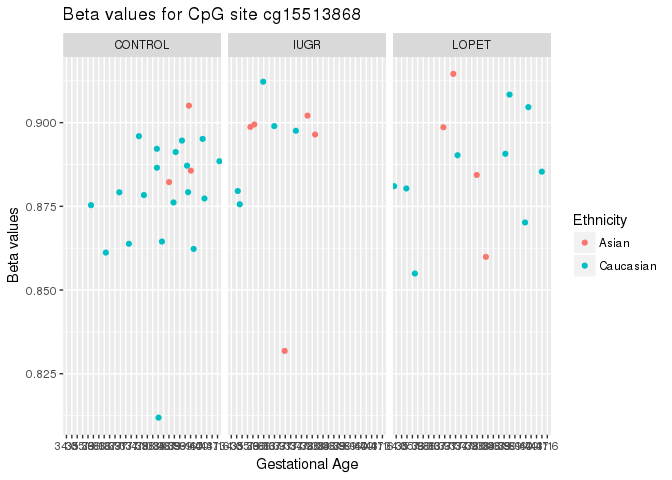
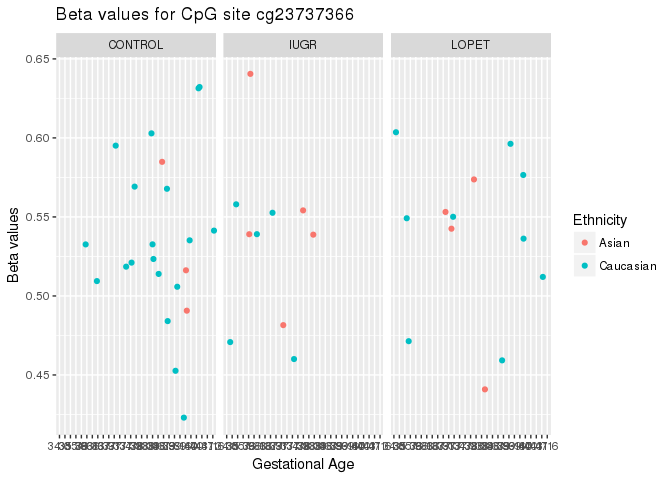
final exploratory

diff --git a/Scripts/ExploratoryAnalysis/Exploratory.md b/Scripts/ExploratoryAnalysis/Exploratory.md
@@ -1,6 +1,6 @@
 Exploratory Analysis of Processed Data
 ================
-Nivretta
+Nivretta, Ming
 
 Step 0: Load Packages and Data
 ==============================
@@ -59,13 +59,14 @@ full <- cbind(design, t(data))
 
 ``` r
 #random cpg site from 1 to 464923
-probe_row <- 2000
+probe_row <- 6000
 
 #get the site name 
 probe_name <- colnames(full)[probe_row]
 
+
 #plot y = beta values for random cpg site for all samples, x= gestational age, plots divided by sample group, points colored by ethnicity
-ggplot(full, aes(x = as.factor(ga), y = full[probe_row], colour = Ethnicity)) + 
+ggplot(full, aes(x = as.factor(ga), y = full[probe_name], colour = Ethnicity)) + 
   #geom_boxplot(aes(fill=Ethnicity), show.legend = TRUE) + 
   geom_jitter(width = 0.5) + 
   facet_wrap(~Sample_Group) + 
@@ -81,11 +82,11 @@ ggplot(full, aes(x = as.factor(ga), y = full[probe_row], colour = Ethnicity)) +
 ``` r
   #stat_summary(fun.y = mean, geom="point", colour="darkred", size= 3)
 
-#beta values for random cpG site, box plots of ethnicity
-ggplot(full, aes(x = Ethnicity, y = full[probe_row])) + 
-  geom_boxplot(aes(fill=Ethnicity), show.legend = FALSE) + 
-  geom_jitter(width = 0.3) + 
-  facet_wrap(~sex) + 
+#beta values for random cpG site
+ggplot(full, aes(x = Ethnicity, y = full[probe_name])) + 
+  geom_violin(show.legend = FALSE) + 
+  geom_jitter(width = 0.3, aes(colour = sex)) + 
+  #facet_wrap(~sex) + 
   xlab("Ethnicity") + 
   ylab("Beta values") +
   ggtitle(paste("Beta values for CpG site", probe_name)) +
@@ -109,21 +110,37 @@ gsetFin2_ethnicity <- data[, order_ethnicity]
 #set the color pallette for heatmap
 cols<-c(rev(brewer.pal(9,"YlOrRd")), "#FFFFFF")
 
+col <- c(rep("darkgoldenrod1", times = ncol(gsetFin2_ethnicity)))
+col[grepl("Asian", full_ethnicity$Ethnicity)] <- "forestgreen"
+op <- par(mai = rep(0.5, 4))
 heatmap.2(cor(gsetFin2_ethnicity), 
-          Rowv=NA, 
-          Colv=NA, 
+          Rowv=FALSE, 
+          Colv=FALSE, 
           dendrogram = "none",
+          symm = TRUE,
           trace="none",
-          col=cols, 
-          margins = c(8,8),
-          #labRow = c(full_time$labels),
-          #labCol = c(full_time$labels),
-          key.title = NA)
-title("Sample Correlations, 
-      Ordered by Ethnicity then sample group")
+          col = cols, 
+          margins = c(1,1),
+          RowSideColors = col,
+          ColSideColors = col,
+          labRow = FALSE,
+          labCol = FALSE,
+          key.title = NA,
+          main = "Sample Correlations, 
+        Ordered by Ethnicity then sample group")
+legend("bottomleft", c("Caucasian", "Asian"), col = c("darkgoldenrod1", "forestgreen"), 
+    pch = 15)
 ```
 
 ![](Exploratory_files/figure-markdown_github/Sample%20to%20Sample%20Correlations-1.png)
+
+``` r
+par(op)
+```
+
+Sample group (Control, LOPET, IUGR) does not seem to affect the clustering of the samples. This fits with what it is known in the literature (control, LOPET, IUGR do not affect DNAm). Most of the samples seem to correlate evenly with each other.
+
+Now let's look at sample to sample correlation, ordered by ethnicity then gender.
 
 ``` r
 #obtain sample names in order of ethnicity and then gender
@@ -136,21 +153,35 @@ gsetFin2_ethnicity_sex <- data[, order_ethnicity_sex]
 #set the color pallette for heatmap
 cols<-c(rev(brewer.pal(9,"YlOrRd")), "#FFFFFF")
 
+col <- c(rep("darkgoldenrod1", times = ncol(gsetFin2_ethnicity_sex)))
+col[grepl("Asian", full_ethnicity_sex$Ethnicity)] <- "forestgreen"
+op <- par(mai = rep(0.5, 4))
 heatmap.2(cor(gsetFin2_ethnicity_sex), 
-          Rowv=NA, 
-          Colv=NA, 
+           Rowv=FALSE, 
+          Colv=FALSE, 
           dendrogram = "none",
+          symm = TRUE,
           trace="none",
-          col=cols, 
-          margins = c(8,8),
-          #labRow = c(full_time$labels),
-          #labCol = c(full_time$labels),
-          key.title = NA)
-title("Sample Correlations, 
-      Ordered by Ethnicity then Sex")
+          col = cols, 
+          margins = c(1,1),
+          RowSideColors = col,
+          ColSideColors = col,
+          labRow = FALSE,
+          labCol = FALSE,
+          key.title = NA,
+          main = "Sample Correlations, 
+        Ordered by Ethnicity then Gender")
+legend("bottomleft", c("Caucasian", "Asian"), col = c("darkgoldenrod1", "forestgreen"), 
+    pch = 15)
 ```
 
 ![](Exploratory_files/figure-markdown_github/Sample%20to%20Sample%20Correlations2-1.png)
+
+``` r
+par(op)
+```
+
+It's difficult to tell if gender affects affects the clustering of the samples. We need to look at the data further.
 
 Step 2: Unsupervised clustering
 ===============================
@@ -213,17 +244,6 @@ summary(pc.train)
 The `summary()` function describes the importance of the PCs. The first row describe again the standard deviation associated with each PC. The second row shows the proportion of the variance in the data explained by each component while the third row describe the cumulative proportion of explained variance.
 
 ``` r
-#Plot seems unncessary and vector labels not working, ok to remove?
-#g <- ggbiplot(pc.train, obs.scale = 1, var.scale = 1, 
-              #groups = design$Ethnicity, ellipse = TRUE, 
-              #circle = TRUE)
-#g <- g + scale_color_discrete(name = '')
-#g <- g + theme(legend.direction = 'horizontal', 
-               #legend.position = 'top')
-#print(g)
-
-
-
 PC123 <- data.frame(pc.train$x[,1:5])              # Take out first 3 PCs
 PC123 <- PC123 %>% tibble::rownames_to_column('Samplename') %>%             # Put sample names into column to 
                     left_join(design, 'Samplename')                         # Join the metadata info 
@@ -313,19 +333,38 @@ splom(PC123[,c(2:6,10)], panel = panel.smoothScatter, raster = TRUE)
 
 Plotting scatter plots of the top 5 PCs against ethnicity, none of the PCs can clearly separate samples by ethnicity, disappointing.
 
-Getting functional analysis for important CpG sites.
+### PCA projection of loadings to test data:
+
+We can use the predict function if we observe new data and want to predict their PCs values.
 
 ``` r
-#write.csv(x = data, file = "data.csv")
+#download test data from dropbox
+#testdata.txt is in gitignore, be sure not to try to push to github
+#download.file("https://www.dropbox.com/s/gjmtofnktayl6m1/testdata.txt?dl=1", "testdata.txt")
 
-#test <- as.data.frame.DataTable(c("cg06903451", "cg09843049", "cg09843049"))
-
-#write.table(x = test, file = "test.csv")
-
-#beta.file <- "data.txt"
-#project.folder <- getwd()
-#project.name <- "test"
-
-#source("COHCAPmodify.R")
-#beta.table <- COHCAPmodify(beta.file, project.name, project.folder, platform="450k-HMM", output.format = "xls")
+#read in test data
+test.data <- read.table("testdata.txt", row.names = 1, header = T)
+test.data <- as.data.frame(t(test.data))
+sum(is.na(test.data)) # 52000 total entries that are NA
 ```
+
+    ## [1] 52000
+
+``` r
+test.rmna <- test.data[, colSums(is.na(test.data)) == 0]  # remove columns with NAs present
+
+#predict PCs for test set by projecting PC loadings to test data
+predicted <- predict(pc.train, new.data = test.rmna)
+```
+
+    ## Warning: In predict.prcomp(pc.train, new.data = test.rmna) :
+    ##  extra argument 'new.data' will be disregarded
+
+``` r
+str(predicted)
+```
+
+    ##  num [1:45, 1:45] -310.8 -19.5 215.7 -43.5 -197.2 ...
+    ##  - attr(*, "dimnames")=List of 2
+    ##   ..$ : chr [1:45] "PM104" "PM112" "PM114" "PM115" ...
+    ##   ..$ : chr [1:45] "PC1" "PC2" "PC3" "PC4" ...
